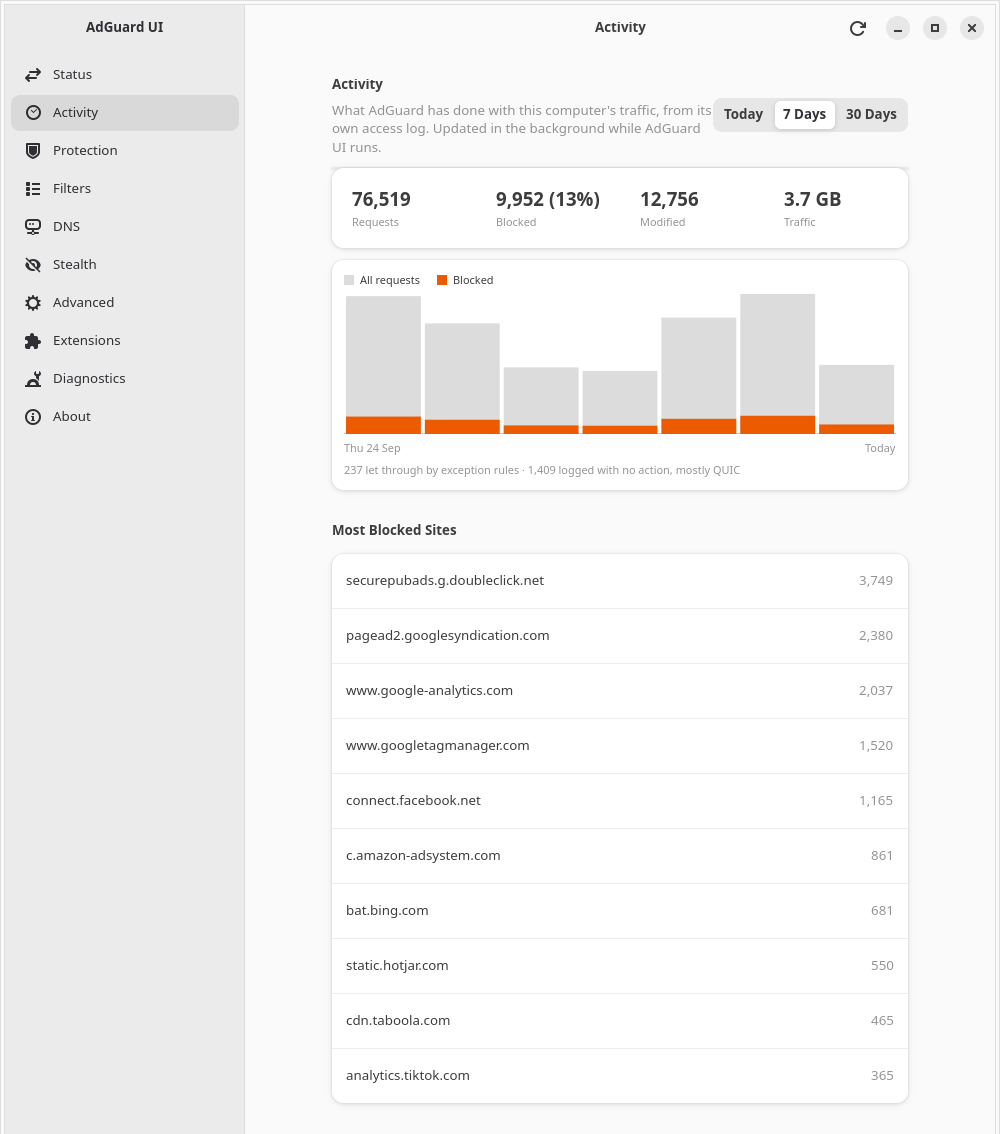
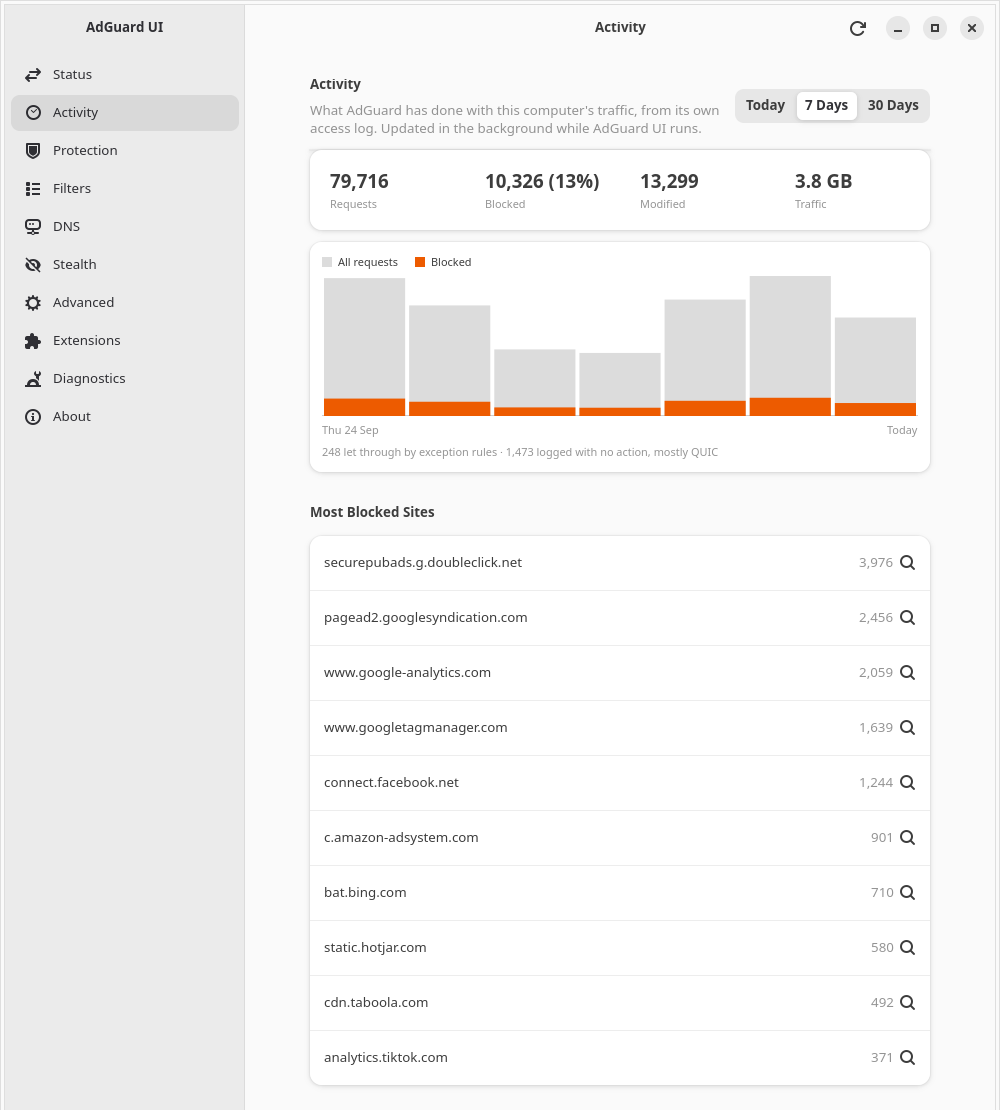
docs: re-take the Activity and Diagnostics frames for the rest of #21
Activity's top lists now carry a search button on every row, and
Diagnostics gained Save… and the Check a Website group above the machine
sections. Activity is sample data from a scratch store as before; the frame
is cut after Most Blocked Sites, above the Requests group, which reads the
real log. building.md says so for the next re-take.

diff --git a/docs/building.md b/docs/building.md
@@ -368,7 +368,7 @@ The unmet certificate, root-helper and browser-integration groups are invisible 
 - **Three more things, measured 30 September 2026 while re-taking the set for 1.7.0**, which added Activity and Diagnostics and so invalidated every frame with a sidebar:
   - **The healthy frames need the certificate overridden now, because the reference machine is not healthy.** Its system anchor has held a stale copy of the CA since the certificate was regenerated on 6 September (`architecture.md` §7, the Diagnostics entry). Shot as it is, Protection grows a certificate group that the committed frame does not have. The CA's public `.pem` copied into a sandbox anchor directory and a sandbox bundle, named by `SYSTEM_CERT_DIR` and `ADGUARD_CA_BUNDLE`, restores the state every regular frame was taken in. The file holds one `BEGIN CERTIFICATE` block and no key, so this is not the private-key hazard `adguard.conf` is. With that, Protection's content column came back pixel-identical to the committed frame.
   - **The unmet frame's `ADGUARD_CA_BUNDLE` must name a file that does not exist, not an empty one.** An empty file changes which path the certificate row names: it reports the bundle it checked rather than `/tmp/adguard-demo/certs/AdGuard CLI CA.crt`. With an absent path the frame matched the committed one except for three antialiasing pixels in the title.
-  - **The Activity frame is sample data, and it has to be.** The real page lists this machine's most visited and most blocked sites. The frame is taken with a scratch `XDG_STATE_HOME`: launch once so the store reads the real log and records its position, delete every count but keep the `cursor` row, insert sample rows, then launch again for the frame. Keeping the cursor means only the few seconds of real traffic between the two launches are read back, and they reach the totals but not the top lists: check that every name in the four lists is one you inserted before committing the frame. The README's alt text says the data is sample data.
+  - **The Activity frame is sample data, and it has to be.** The real page lists this machine's most visited and most blocked sites. The frame is taken with a scratch `XDG_STATE_HOME`: launch once so the store reads the real log and records its position, delete every count but keep the `cursor` row, insert sample rows, then launch again for the frame. Keeping the cursor means only the few seconds of real traffic between the two launches are read back, and they reach the totals but not the top lists: check that every name in the four lists is one you inserted before committing the frame. The README's alt text says the data is sample data. **The Requests group further down is not covered by any of this**: it searches AdGuard's own log in place, and a scratch `XDG_STATE_HOME` does not move that log, so whatever it lists is this machine's real traffic. The committed frame ends above it, cut after Most Blocked Sites; keep it there.
 - **Cut the crop on a background row, not at a fixed offset.** Both edges: a fixed offset above a group heading slices the previous group's last row in half, and a frame that ends mid-row reads as a rendering fault rather than as a page continuing. Walking to the nearest all-background row costs four lines and is the difference between a frame that looks deliberate and one that looks broken.
 
 ### Selecting a sidebar page over AT-SPI
